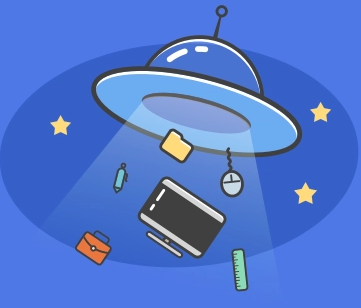
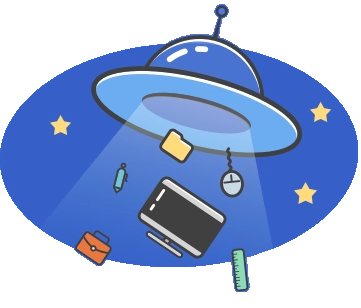
design update

diff --git a/index.html b/index.html
@@ -7,7 +7,7 @@
     <!-- <link rel="stylesheet" href="style.css" /> -->
     <title>UFO</title>
   </head>
-  <body style="background-color: blue">
+  <body style="background-color: #4e78e5">
     <main
       style="
         display: inline-block;
@@ -50,7 +50,7 @@
             font-family: Arial;
             border: 2px solid white;
             padding: 10px;
-            padding-left: 10px;
+            padding-left: 30px;
             padding-right: 30px;
             border-radius: 21px;
           "
